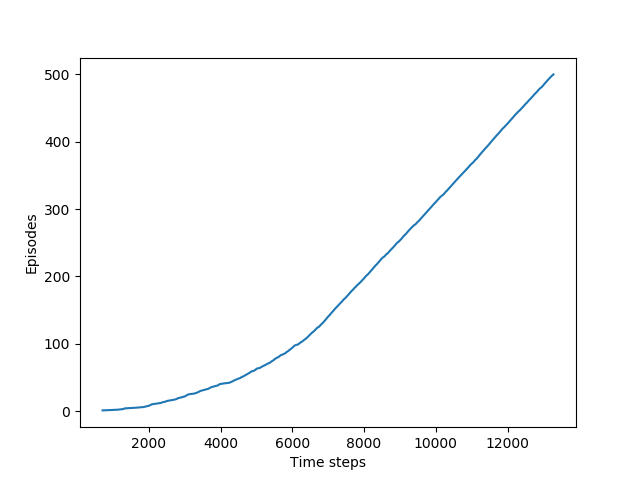
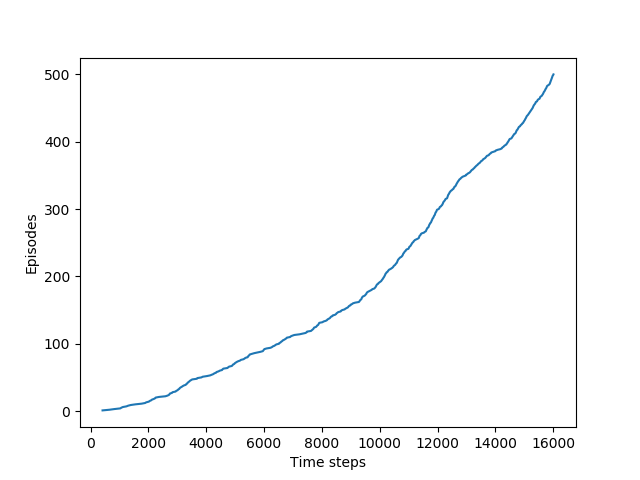
Act 1-3

diff --git a/act1_3.py b/act1_3.py
@@ -42,30 +42,32 @@ ACTIONS = [ACTION_UP, ACTION_DOWN, ACTION_LEFT, ACTION_RIGHT,
            ACTION_LEFT_DOWN, ACTION_LEFT_UP, ACTION_RIGHT_DOWN, ACTION_RIGHT_UP]
 
 
+# viento aleatorio: np.random.choice(np.arange(WIND[j] + 1))
 def step(state, action):
     i, j = state
     if action == ACTION_UP:
-        return [max(i - 1 - WIND[j], 0), j]
+        return [max(i - 1 - np.random.choice(np.arange(WIND[j] + 1)), 0), j]
     elif action == ACTION_DOWN:
-        return [max(min(i + 1 - WIND[j], WORLD_HEIGHT - 1), 0), j]
+        return [max(min(i + 1 - np.random.choice(np.arange(WIND[j] + 1)), WORLD_HEIGHT - 1), 0), j]
     elif action == ACTION_LEFT:
-        return [max(i - WIND[j], 0), max(j - 1, 0)]
+        return [max(i - np.random.choice(np.arange(WIND[j] + 1)), 0), max(j - 1, 0)]
     elif action == ACTION_RIGHT:
-        return [max(i - WIND[j], 0), min(j + 1, WORLD_WIDTH - 1)]
+        return [max(i - np.random.choice(np.arange(WIND[j] + 1)), 0), min(j + 1, WORLD_WIDTH - 1)]
     elif action == ACTION_LEFT_DOWN:
-        return [max(min(i + 1 - WIND[j], WORLD_HEIGHT - 1), 0), max(j - 1, 0)]
+        return [max(min(i + 1 - np.random.choice(np.arange(WIND[j] + 1)), WORLD_HEIGHT - 1), 0), max(j - 1, 0)]
     elif action == ACTION_LEFT_UP:
-        return [max(i - 1 - WIND[j], 0), max(j - 1, 0)]
+        return [max(i - 1 - np.random.choice(np.arange(WIND[j] + 1)), 0), max(j - 1, 0)]
     elif action == ACTION_RIGHT_DOWN:
-        return [max(min(i + 1 - WIND[j], WORLD_HEIGHT - 1), 0), min(j + 1, WORLD_WIDTH - 1)]
+        return [max(min(i + 1 - np.random.choice(np.arange(WIND[j] + 1)), WORLD_HEIGHT - 1), 0),
+                min(j + 1, WORLD_WIDTH - 1)]
     elif action == ACTION_RIGHT_UP:
-        return [max(i - 1 - WIND[j], 0), min(j + 1, WORLD_WIDTH - 1)]
+        return [max(i - 1 - np.random.choice(np.arange(WIND[j] + 1)), 0), min(j + 1, WORLD_WIDTH - 1)]
     else:
         assert False
 
 
 # play for an episode
-def episode(q_value):
+def episode(q_value, sarsa=True):
     # track the total time steps in this episode
     time = 0
 
@@ -89,9 +91,15 @@ def episode(q_value):
             next_action = np.random.choice(
                 [action_ for action_, value_ in enumerate(values_) if value_ == np.max(values_)])
 
-        # Q-Learning update
-        q_value[state[0], state[1], action] += ALPHA * (
-                REWARD + GAMMA * np.max(q_value[next_state[0], next_state[1], :]) - q_value[state[0], state[1], action])
+        if sarsa:
+            # Sarsa update
+            q_value[state[0], state[1], action] += ALPHA * (
+                    REWARD + q_value[next_state[0], next_state[1], next_action] - q_value[state[0], state[1], action])
+        else:
+            # Q-Learning update
+            q_value[state[0], state[1], action] += ALPHA * (
+                    REWARD + GAMMA * np.max(q_value[next_state[0], next_state[1], :]) - q_value[
+                state[0], state[1], action])
 
         state = next_state
         action = next_action
@@ -99,7 +107,7 @@ def episode(q_value):
     return time
 
 
-def activity_1_2():
+def activity_1_3():
     q_value = np.zeros((WORLD_HEIGHT, WORLD_WIDTH, 8))
     episode_limit = 500
 
@@ -149,4 +157,4 @@ def activity_1_2():
     print('Wind strength for each column:\n{}'.format([str(w) + ' ' for w in WIND]))
 
 
-activity_1_2()
+activity_1_3()

diff --git a/act2.py b/act2.py
@@ -1,0 +1,11 @@
+import gym
+env = gym.make("CartPole-v1")
+observation = env.reset()
+for _ in range(1000):
+  env.render()
+  action = env.action_space.sample() # your agent here (this takes random actions)
+  observation, reward, done, info = env.step(action)
+
+  if done:
+    observation = env.reset()
+env.close()
